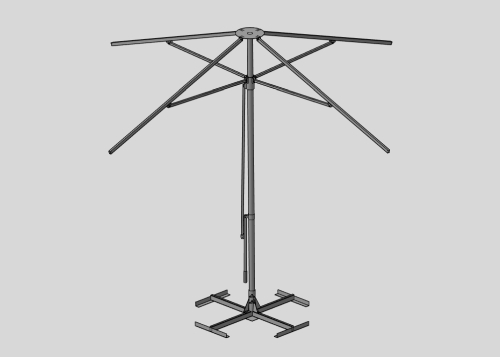
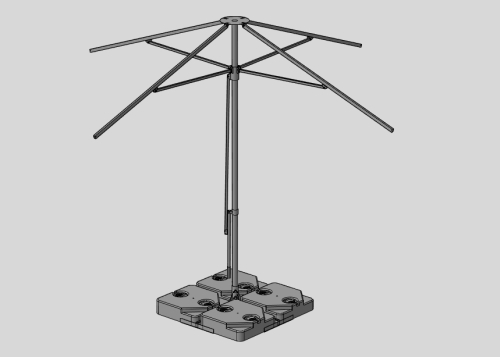
porfolio menu

Changed region(s): [[0.18, 0.0308, 0.81, 0.9552], [0.24, 0.3697, 0.27, 0.4006], [0.21, 0.4006, 0.24, 0.4314]]

diff --git a/index.html b/index.html
@@ -175,12 +175,12 @@
                 <div class="services__title-inner">
                     Услуги
                 </div>
-
             </div>
 
             <div class="services__items">
                 <div class="services__items-inner">
 
+                    <!-- первый блок -->
                     <div class="services__item">
                         <div class="services__item-titlebox">
                             <div class="services__item-title-icon">
@@ -204,6 +204,7 @@
                             оборудование. Большой выбор готовых конструктивных решений.</div>
                     </div>
 
+                    <!-- ВТОРОЙ БЛОК -->
                     <div class="services__item">
                         <div class="services__item-titlebox">
                             <div class="services__item-title-icon">
@@ -224,10 +225,9 @@
                                 <img src="img/services__item-subtext4.jpg" alt="">
                             </div>
                         </div>
-
-
                     </div>
 
+                    <!-- ТРЕТИЙ БЛОК -->
                     <div class="services__item">
                         <div class="services__item-titlebox">
                             <div class="services__item-title-icon">
@@ -279,6 +279,7 @@
 
                     </div>
 
+                    <!-- ЧЕТВЕРТЫЙ БЛОК -->
                     <div class="services__item">
                         <div class="services__item-titlebox">
                             <div class="services__item-title-icon">
@@ -298,13 +299,7 @@
                     </div>
                 </div>
 
-
             </div>
-
-
-
-
-
 
         </section>
 
@@ -315,7 +310,8 @@
                     <span></span>
                 </div>
                 <div class="portfolio__title-text">
-                    портфолио
+                    <span>портфолио </span>
+                    <span></span>
                 </div>
 
             </div>
@@ -328,7 +324,7 @@
                         <div class="blockr2"></div>
                     </div>
                     <div class="portfolio__menu-item">
-                        Уличные зонты
+                        зонты
                         <div class="blockl1"></div>
                         <div class="blockl2"></div>
                         <div class="blockl3"></div>
@@ -336,7 +332,7 @@
                         <div class="blockr2"></div>
                     </div>
                     <div class="portfolio__menu-item">
-                        Складское оборудование
+                        Склад
                         <div class="blockl1"></div>
                         <div class="blockl2"></div>
                         <div class="blockl3"></div>
@@ -344,7 +340,7 @@
                         <div class="blockr2"></div>
                     </div>
                     <div class="portfolio__menu-item">
-                        Оборудование для уличной торговли
+                        уличная торговля
                         <div class="blockl1"></div>
                         <div class="blockl2"></div>
                         <div class="blockl3"></div>
@@ -384,6 +380,39 @@
                     <img src="img/prtf/1p.jpg" alt="">
                     <div class="portfolio__item-hover">
                         <div class="portfolio__item-hover-title">Стол-скамья со складным зонтом</div>
+                        <div class="portfolio__item-hover-button">
+                            <div class="portfolio__item-hover-button-inner"></div>
+                        </div>
+                    </div>
+                </div>
+
+                <!-- Тележка для уличной торговли с зонтом -->
+                <div class="portfolio__item category0 category3 category4" id="pi2">
+                    <img src="img/prtf/2p.jpg" alt="">
+                    <div class="portfolio__item-hover">
+                        <div class="portfolio__item-hover-title">Тележка для уличной торговли с зонтом</div>
+                        <div class="portfolio__item-hover-button">
+                            <div class="portfolio__item-hover-button-inner"></div>
+                        </div>
+                    </div>
+                </div>
+
+                <!-- Антивандальный сейф для морозильной камеры -->
+                <div class="portfolio__item category0 category3 category4" id="pi22">
+                    <img src="img/prtf/22p.jpg" alt="">
+                    <div class="portfolio__item-hover">
+                        <div class="portfolio__item-hover-title">Антивандальный сейф для морозильной камеры</div>
+                        <div class="portfolio__item-hover-button">
+                            <div class="portfolio__item-hover-button-inner"></div>
+                        </div>
+                    </div>
+                </div>
+
+                <!-- Утяжелитель опоры зонта-->
+                <div class="portfolio__item category0 category1 category4" id="pi25">
+                    <img src="img/prtf/25p.jpg" alt="">
+                    <div class="portfolio__item-hover">
+                        <div class="portfolio__item-hover-title">Утяжелитель опоры зонта</div>
                         <div class="portfolio__item-hover-button">
                             <div class="portfolio__item-hover-button-inner"></div>
                         </div>
@@ -444,29 +473,7 @@
                         </div>
                     </div>
                 </div>
-
-                <!-- Тележка для уличной торговли с зонтом -->
-                <div class="portfolio__item category0 category3 category4" id="pi2">
-                    <img src="img/prtf/2p.jpg" alt="">
-                    <div class="portfolio__item-hover">
-                        <div class="portfolio__item-hover-title">Тележка для уличной торговли с зонтом</div>
-                        <div class="portfolio__item-hover-button">
-                            <div class="portfolio__item-hover-button-inner"></div>
-                        </div>
-                    </div>
-                </div>
-
-                <!-- Антивандальный сейф для морозильной камеры -->
-                <div class="portfolio__item category0 category3 category4" id="pi22">
-                    <img src="img/prtf/22p.jpg" alt="">
-                    <div class="portfolio__item-hover">
-                        <div class="portfolio__item-hover-title">Антивандальный сейф для морозильной камеры</div>
-                        <div class="portfolio__item-hover-button">
-                            <div class="portfolio__item-hover-button-inner"></div>
-                        </div>
-                    </div>
-                </div>
-
+              
                 <!-- Тележка для торговли пивом -->
                 <div class="portfolio__item category0 category3" id="pi23">
                     <img src="img/prtf/23p.jpg" alt="">
@@ -703,6 +710,14 @@
                 <div id="pms16" class="portfolio__modal-slider">
                     <img src="img/prtf/16/0.jpg" alt="">
                 </div>
+                <div id="pms17" class="portfolio__modal-slider">
+                    <img src="img/prtf/17/0.jpg" alt="">
+                    <img src="img/prtf/17/1.jpg" alt="">
+                    <img src="img/prtf/17/2.jpg" alt="">
+                </div>
+                <div id="pms25" class="portfolio__modal-slider">
+                    <img src="img/prtf/25/0.jpg" alt="">
+                </div>
                 <div class="portfolio__modal-close"></div>
             </div>
 
@@ -713,9 +728,6 @@
         </section>
 
     </section>
-
-
-
 
     <script src="https://code.jquery.com/jquery-3.4.1.min.js"
         integrity="sha256-CSXorXvZcTkaix6Yvo6HppcZGetbYMGWSFlBw8HfCJo=" crossorigin="anonymous"></script>

diff --git a/js/main.js b/js/main.js
@@ -137,14 +137,38 @@ $(function () {
     portfolioItems.css('height', `${Math.ceil(Items0.length / 4) * 210}px`);
 
     menuItems.on('click', function () {
-        // сворачивать меню и анимировать значок бурег
+        // сворачивать меню и анимировать значок бургер
         // но, только если в соотв. диапазоне размера экрана
         if (parseInt($('.portfolio').css('width')) < 900) {
             portfolioBurger.toggleClass('active');
             portfolioMenu.toggleClass('active');
         }
 
-        let i = menuItems.index($(this)); // номер НОВОЙ категории 
+        let i = menuItems.index($(this)); // номер НОВОЙ категории
+        let categoryText;
+        switch (i) {
+            case 0: {
+                categoryText = '';
+                break;
+            }
+            case 1: {
+                categoryText = 'уличные зонты';
+                break;
+            }
+            case 2: {
+                categoryText = 'складское оборудование';
+                break;
+            }
+            case 3: {
+                categoryText = 'оборудование для уличной торговли';
+                break;
+            }
+            case 4: {
+                categoryText = 'рендеринг и визуализация';
+                break;
+            }
+        }
+        $('.portfolio__title-text span:last-child').text(categoryText);
         if (i !== iActive) {
             $(this).addClass('active');
             menuItems.eq(iActive).removeClass('active');
@@ -467,8 +491,8 @@ $(function () {
                 $('.services__item-img2 img').eq(countStepNext % 36).css('opacity', '1');
 
             } else {
-                $('.services__item-img2 img').eq((35+countStep) % 36).css('opacity', '0');
-                $('.services__item-img2 img').eq((35+countStepNext) % 36).css('opacity', '1');
+                $('.services__item-img2 img').eq((35 + countStep) % 36).css('opacity', '0');
+                $('.services__item-img2 img').eq((35 + countStepNext) % 36).css('opacity', '1');
             }
             countStep = countStepNext;
         }

diff --git a/css/style.scss b/css/style.scss
@@ -1133,6 +1133,14 @@ body {
                     font-weight: 700;
                     padding: 20px 10px;
                     margin: 0px 10px;
+
+                    span:last-child{
+                        text-transform: none;
+                        font-style: italic;
+                        font-size: 24px;
+                        font-weight: 400;
+                        color: $tc3;
+                    }
                 }
 
             }

diff --git a/css/style.css b/css/style.css
@@ -1268,6 +1268,14 @@ body section.content section.portfolio .portfolio__title .portfolio__title-text 
   margin: 0px 10px;
 }
 
+body section.content section.portfolio .portfolio__title .portfolio__title-text span:last-child {
+  text-transform: none;
+  font-style: italic;
+  font-size: 24px;
+  font-weight: 400;
+  color: #a55200;
+}
+
 body section.content section.portfolio .portfolio__menu {
   height: 48px;
   margin: 0px 10px;
